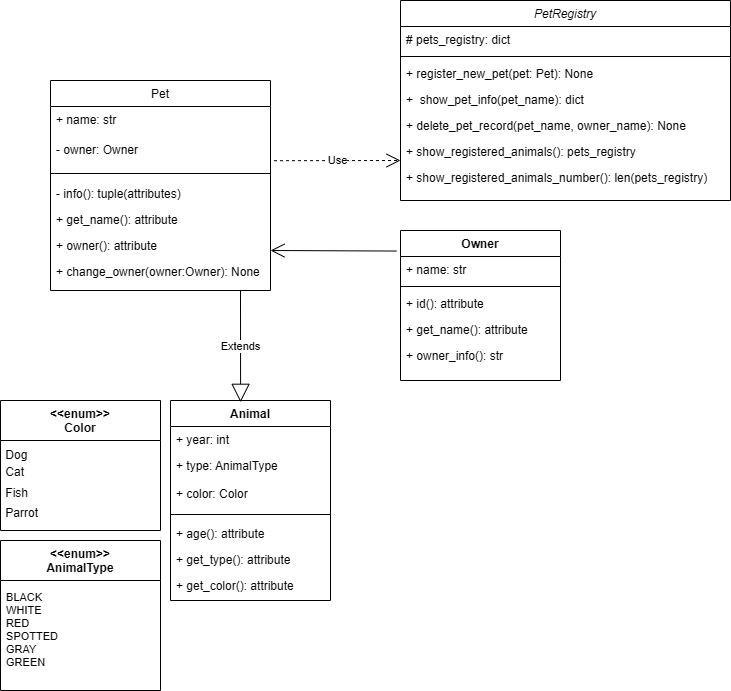
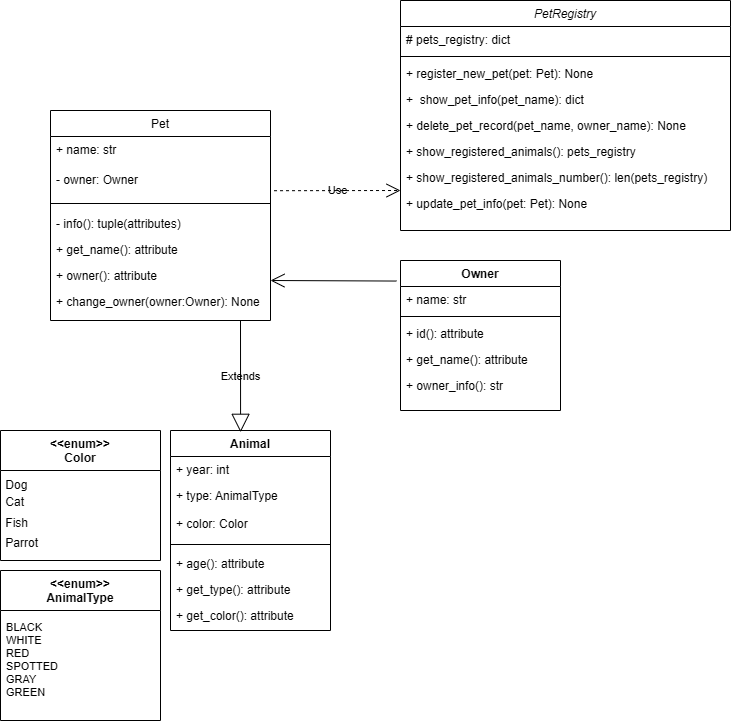
HW13 Updated

diff --git a/HW36_PetsRegister/registration.py b/HW36_PetsRegister/registration.py
@@ -45,4 +45,9 @@ class PetsRegistrator:
     def show_registered_animals_number():
         return len(PetsRegistrator.__pets_registry)
 
+    @staticmethod
+    def update_pet_info(pet: Pet):
+        PetsRegistrator.delete_pet_record(pet.name, str(pet.owner))
+        PetsRegistrator.register_new_pet(pet)
+
 

diff --git a/HW36_PetsRegister/main.py b/HW36_PetsRegister/main.py
@@ -59,3 +59,8 @@ print()
 print(PetsRegistrator.show_pet_info("Lota"))
 pet1.change_owner(owner=owner3)
 print(pet1.owner.owner_info)
+print()
+
+#update pet info in registry
+PetsRegistrator.update_pet_info(pet1)
+print(PetsRegistrator.show_pet_info("Lota"))
